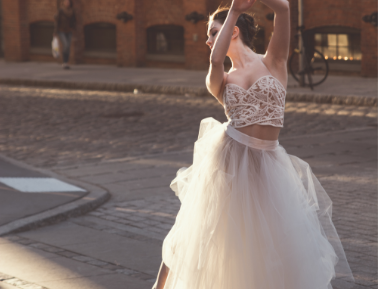
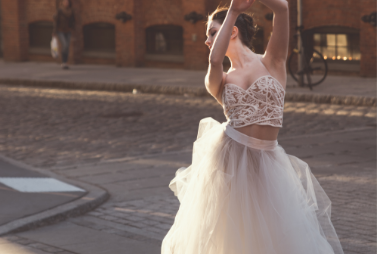
fix image_5 height

diff --git a/public/css/seasonalSpecial.css b/public/css/seasonalSpecial.css
@@ -54,7 +54,7 @@ h6 {
 
 #img5 {
 	width: 77%;
-	max-height: 60%;
+	height: auto;
 	margin-left: 29.5%;
 	margin-top: 7.5%;
 }
